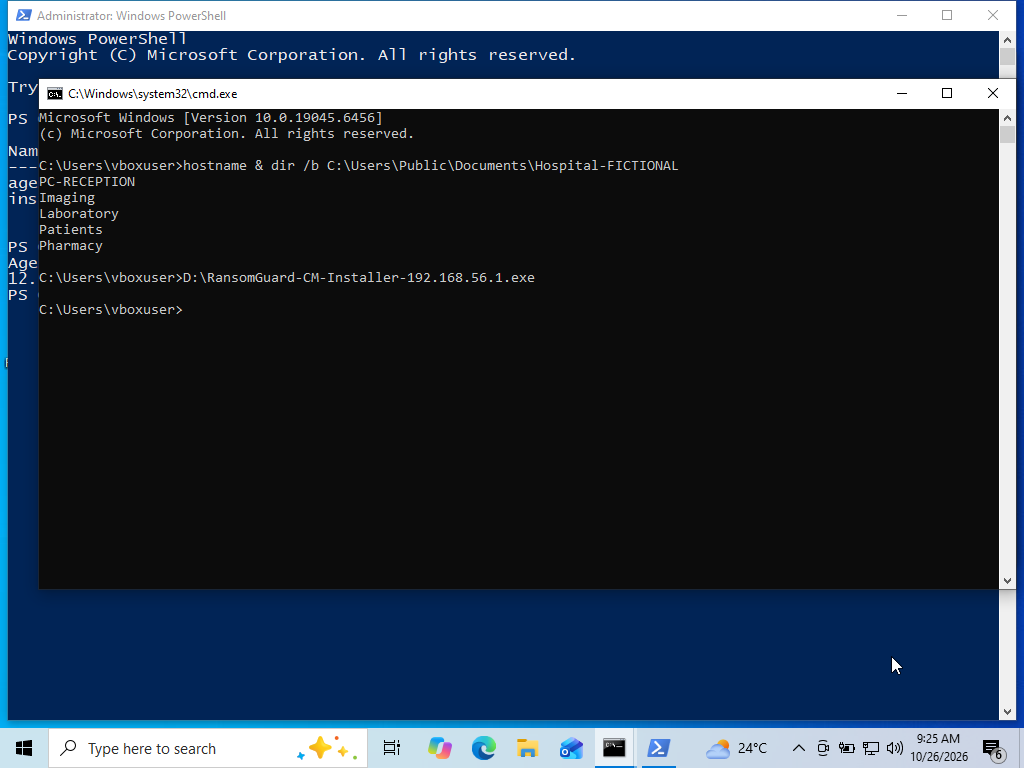
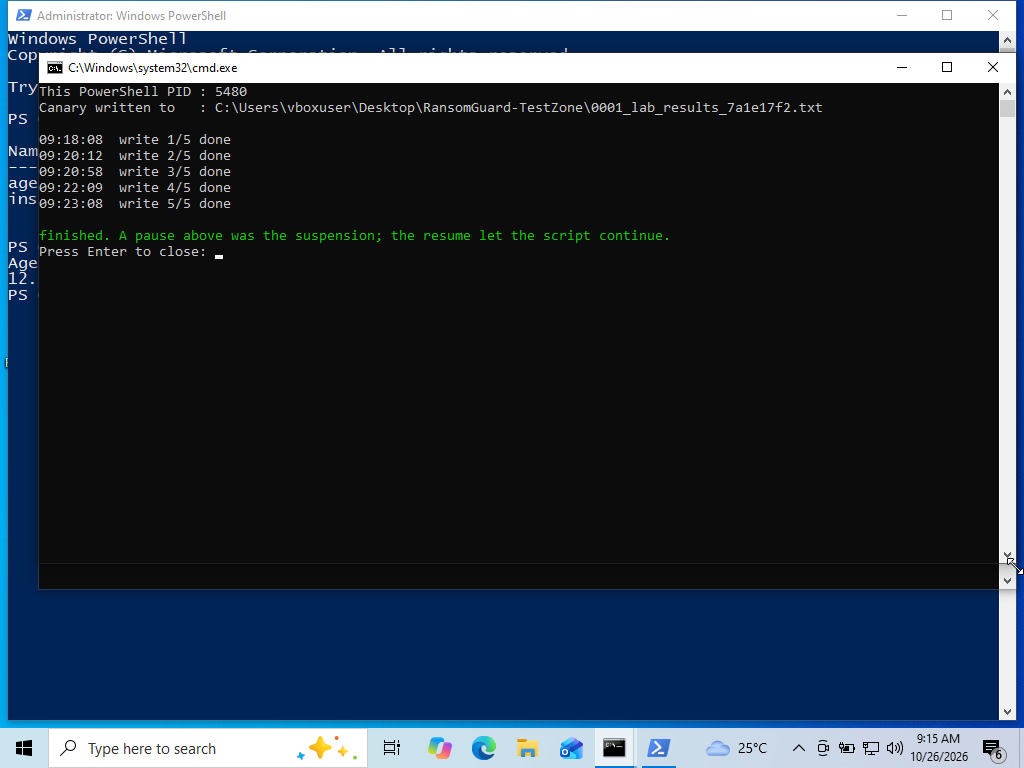
docs: the round 5 screenshots, from the real run
The live detection inside PC-LAB and the owner guide walked on PC-RECEPTION, with a README saying
what each picture is and what run it came from.

The install screenshot shows a 1053 and I have left it there rather than retaking it on a machine
where it would not happen. It is the honest picture of a first-ever install: Windows gives up at
its own 30 s limit, the installer says so, waits, starts the service again, and the workstation
enrols. An owner who meets that line should recognise it from the guide instead of stopping.

diff --git a/docs/screenshots/real/round5-final/README.md b/docs/screenshots/real/round5-final/README.md
@@ -1,0 +1,38 @@
+# Round 5 — the final bench run, 2026-10-26
+
+Everything here was captured from a real run on HEAD `8cd80bb` (agent `1.0.0+8cd80bb`). Nothing is
+staged or redrawn.
+
+## `pc-lab-vm/` — the live detection inside PC-LAB
+
+Taken while `scripts/system-check.ps1 -WithDetection PC-LAB` drove the workstation: a Command
+Prompt opened, `D:\trigger-sentinel.cmd` typed into it, and the window frozen mid-write by the
+suspension. That run finished **33 PASS, 0 FAIL**, and the chain it read back from the GRID was
+`explorer -> cmd -> powershell`, writer `powershell` PID 7504.
+
+| | |
+|---|---|
+| `20-vm-cmd-open.png` | the Command Prompt, before the trigger |
+| `21-vm-trigger-typed.png` | `D:\trigger-sentinel.cmd`, read back before Enter |
+| `22-vm-trigger-suspended.png` | the trigger stopped after its first write: the suspension |
+| `23-vm-after-check.png` | the workstation once the check had resumed it |
+
+## `reception-rehearsal/` — the owner's guide, walked on PC-RECEPTION
+
+`docs/OWNER_TEST_GUIDE.md` followed step by step on a workstation that had never had the agent,
+to meet whatever the owner will meet. What it found is in the guide's own history; the pictures
+are the evidence.
+
+| | |
+|---|---|
+| `07-uac-publisher-unknown.png` | step 7: "Publisher: Unknown", about 30 s after the double-click |
+| `08-installer-enrolled.png` | step 7: 1/6 to 6/6, the 1053 retry, then "Workstation enrolled" |
+| `09-trigger-typed.png` | step 9: the trigger, started from Explorer as the guide says |
+| `09-trigger-suspended.png` | step 9: the first write, then the freeze |
+| `11-trigger-finished.png` | step 11: all five writes, "finished", after five Resume presses |
+| `12-reception-clean-and-running.png` | the workstation left as the owner will find it: no agent, no decoys, no test zone, documents intact |
+
+The 1053 in `08` is worth looking at rather than skipping. It is the Service Control Manager
+giving up at its own 30 s limit on a first-ever install, and the installer saying so, waiting, and
+starting the service a second time — which is why the line below it reads "Service started" and
+then "Workstation enrolled" instead of the install being lost.
